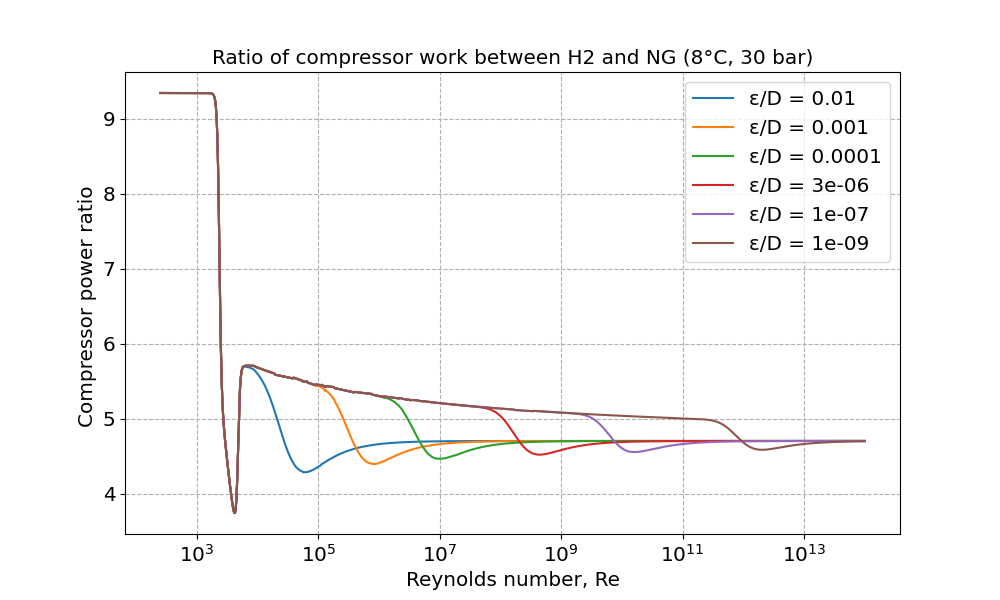
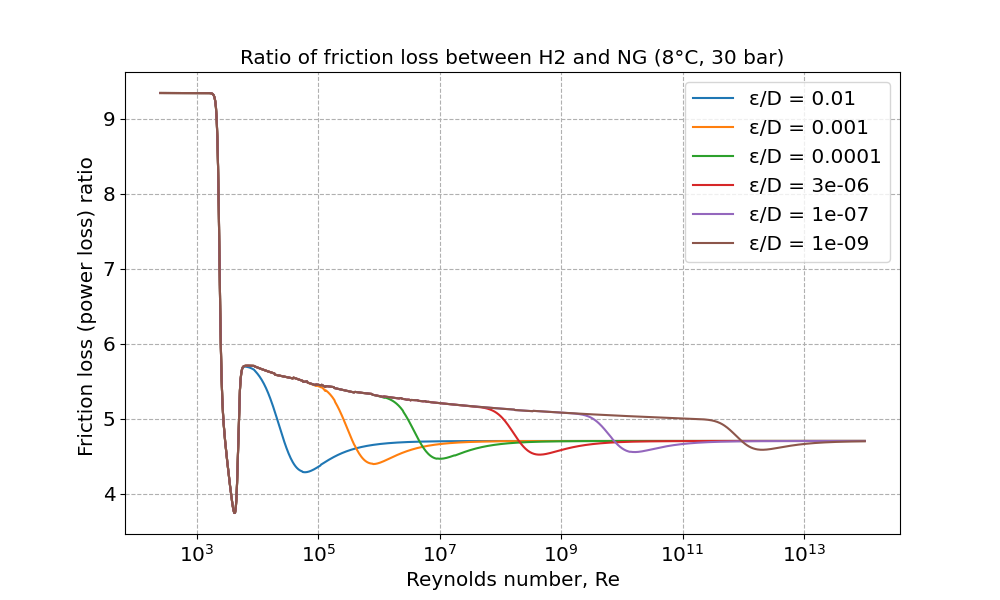
rename compressor power as friction loss

Changed region(s): [[0.217, 0.06, 0.806, 0.12], [0.062, 0.27, 0.093, 0.75]]

diff --git a/moody.py b/moody.py
@@ -442,7 +442,7 @@ def plot_pt_diagram(title, filename, plot="loglog", fff=colebrook, gradient=Fals
                 plt.ylabel('Darcy-Weisbach friction factor ratio ')
         else:
             #plt.ylim(-80,500)
-            plt.ylabel('Compressor power ratio ')
+            plt.ylabel('Friction loss power ratio ')
         plt.title(title)
         plt.grid(True, which='both', ls='--')
         plt.legend()
@@ -520,7 +520,7 @@ def plot_diagram(title, filename, plot="loglog", fff=colebrook, gradient=False, 
             plt.ylabel('Darcy-Weisbach friction factor ratio ')
     if w2:
         #plt.ylim(-80,500)
-        plt.ylabel('Compressor power ratio ')
+        plt.ylabel('Friction loss (power loss) ratio ')
     plt.title(title)
     plt.grid(True, which='both', ls='--')
     plt.legend()
@@ -570,7 +570,7 @@ plot_diagram('$f$  ratio between H2 and NG', 'h2_ratio.png', plot="linlog", fff=
 
 plot_diagram('Pressure gradient ratio between H2 and NG', 'p2_h2_ratio.png', plot="linlog", fff=p2_h2_ratio, h2=True)
 
-plot_diagram('Ratio of compressor work between H2 and NG', 'w2_h2_ratio.png', plot="linlog", fff=w2_h2_ratio, w2=True)
+plot_diagram('Ratio of friction loss between H2 and NG', 'w2_h2_ratio.png', plot="linlog", fff=w2_h2_ratio, w2=True)
 
 plot_diagram('Moody Diagram (Swarmee)', 'moody_swarmee.png', plot="loglog", fff=swarmee)
 # plot_diagram('Moody Diagram (Virtual Nikuradze)', 'moody_vm.png', plot="loglog", fff=[virtual_nikuradse,gioia_chakraborty_friction_factor])
@@ -582,7 +582,7 @@ relative_roughness_values = [1e-5] # not used
 
 # This re-sets global variables P, T
 plot_pt_diagram('Pressure gradient ratio between H2 and NG', 'p2_h2_ratio_pt.png', plot="linlog", fff=p2_h2_ratio)
-plot_pt_diagram('Ratio of compressor work between H2 and NG', 'w2_h2_ratio_pt.png', plot="linlog", fff=w2_h2_ratio, w2=True)
+plot_pt_diagram('Ratio of friction loss (power) between H2 and NG', 'w2_h2_ratio_pt.png', plot="linlog", fff=w2_h2_ratio, w2=True)
 # so reset them afterwards
 T = T250
 P = 30
